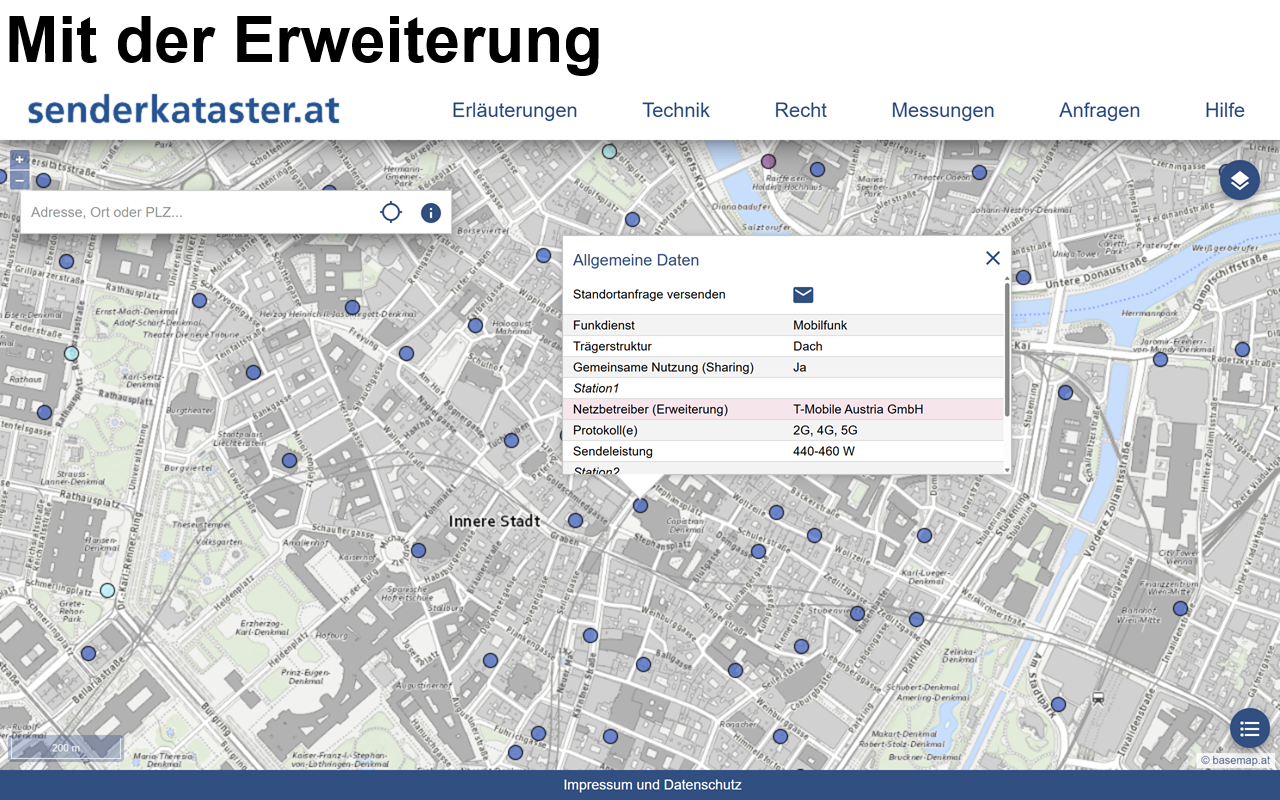
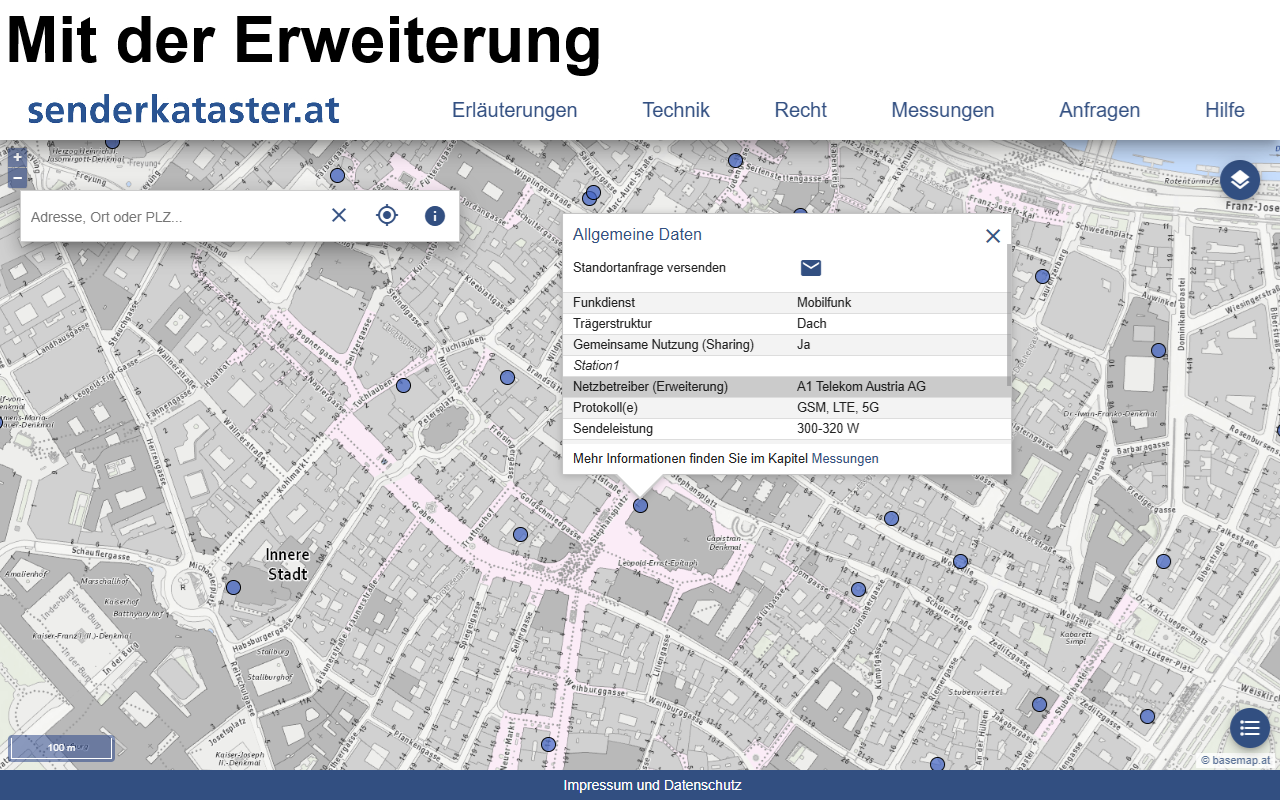
v1.2.5

diff --git a/erweiterung/content.js b/erweiterung/content.js
@@ -7,10 +7,10 @@ const labelTmobile = "T-Mobile Austria GmbH";
 const labelDrei = "Hutchison Drei Austria GmbH";
 const labelA1oderDrei = "Hutchison Drei Austria GmbH oder A1 Telekom Austria AG";
 
-const colorA1 = '#ffc1c1';
-const colorA1oderDrei = '#e6f2ff';
-const colorTMobile = '#fce4ec';
-const colorDrei = '#fff3e0';
+const colorA1 = '#cbcbcb';
+const colorA1oderDrei = '#e4b3e5';
+const colorTMobile = '#b6cb92';
+const colorDrei = '#98bcee';
 
 // ------------------------------------------------------------------
 // INTERACTION TRACKER
@@ -148,6 +148,7 @@ style.textContent = `
   @media screen and (max-width: 1279px) {
     .popup-scroll-content[_ngcontent-ng-c2067059690] {
       margin-bottom: 0px !important;
+    }
   }
 
   /* Responsive height adjustments for taller monitors */
@@ -157,6 +158,7 @@ style.textContent = `
       max-height: 358px !important;
       height: auto !important;
     }
+      
     .popup-scroll-content {
       min-height: 189px !important;
       max-height: 296px !important;
@@ -171,6 +173,7 @@ style.textContent = `
       max-height: 506px !important;
       height: auto !important;
     }
+
     .popup-scroll-content {
       min-height: 189px !important;
       max-height: 468px !important;
